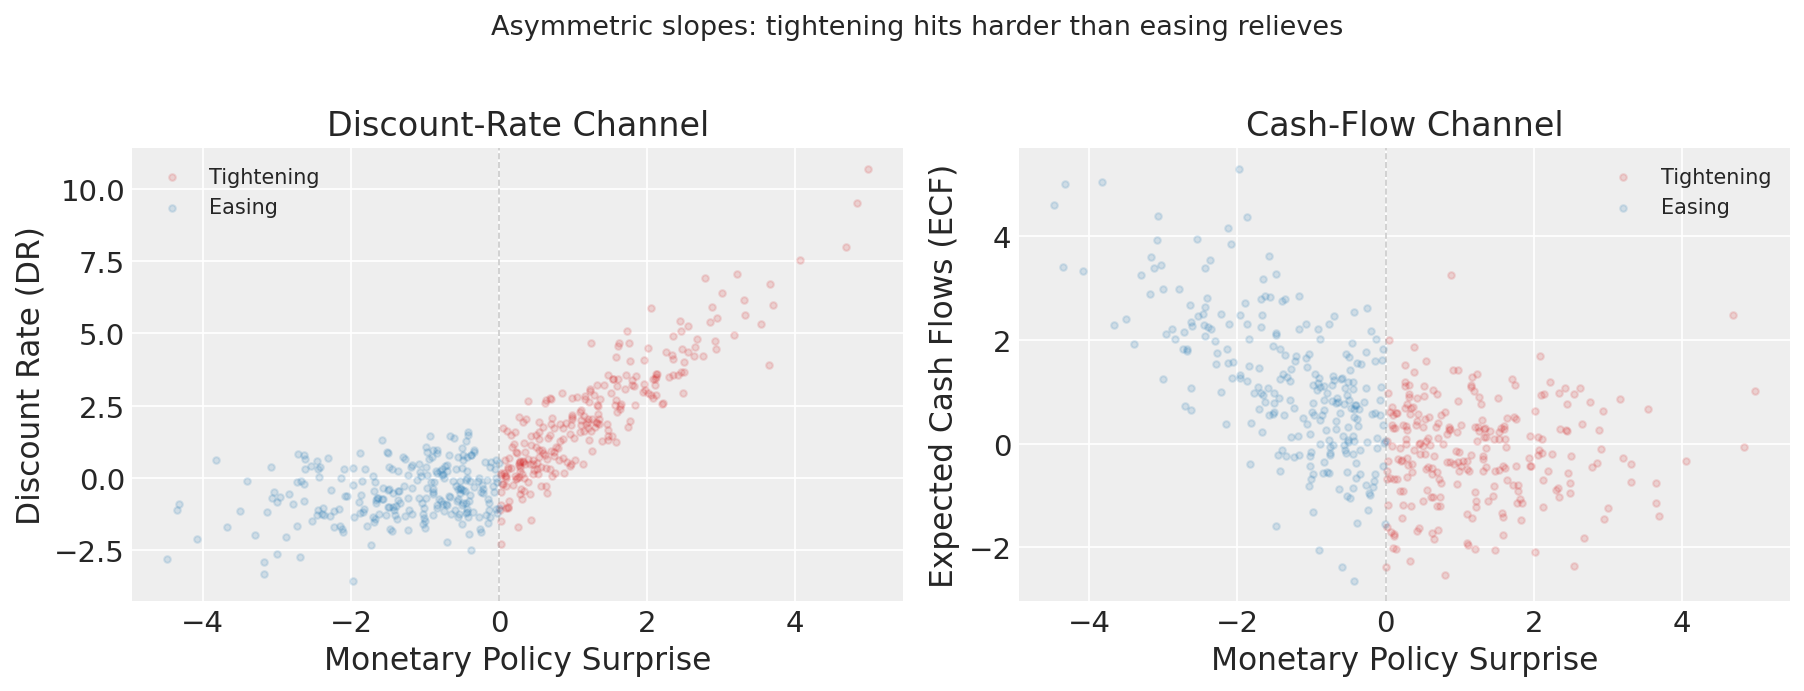
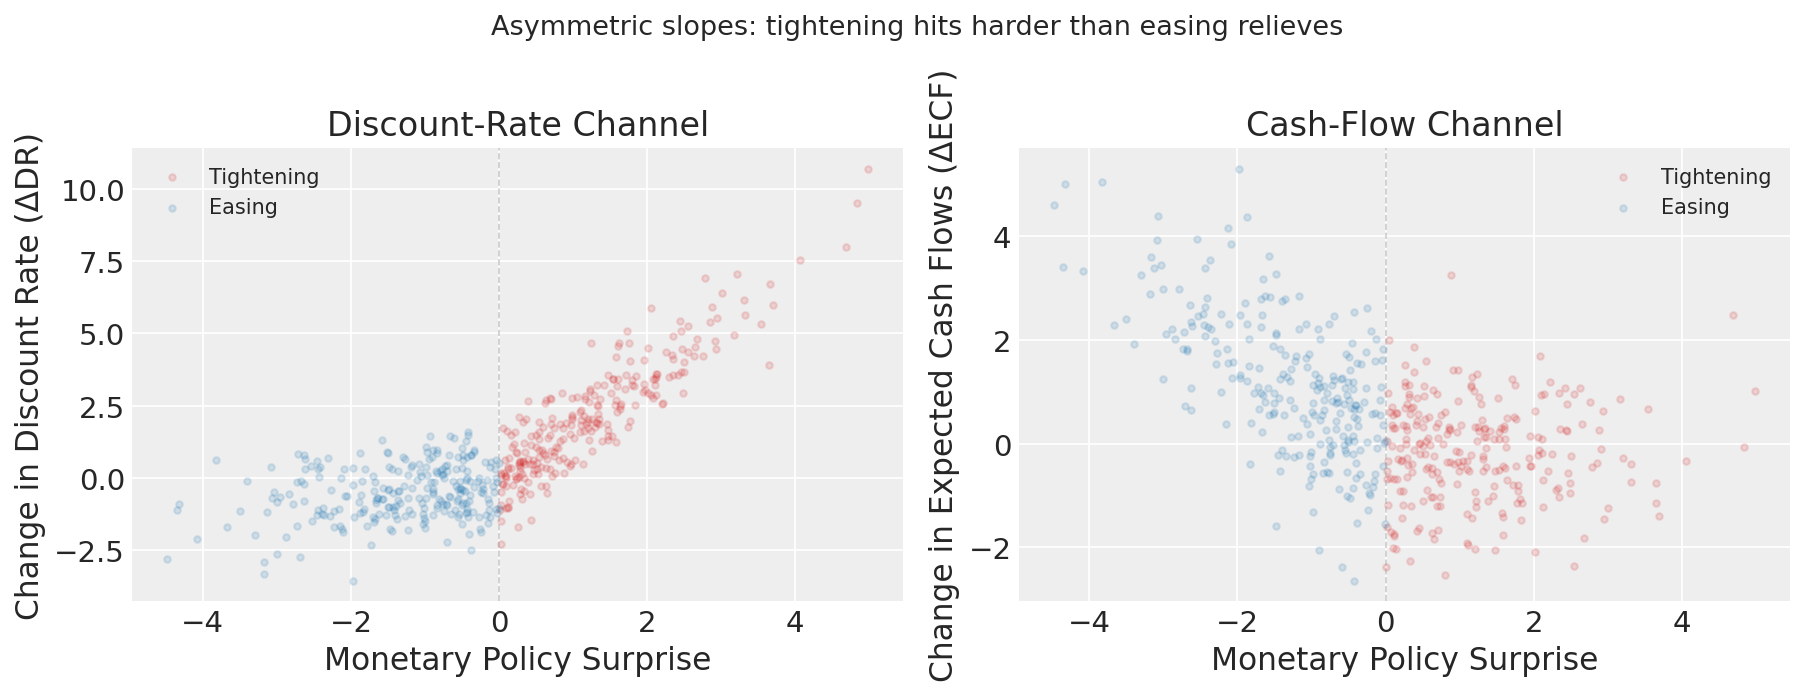
correcting spelling errors

Changed region(s): [[0.4967, 0.1216, 0.5277, 0.9725], [0.0, 0.2127, 0.031, 0.8813]]

diff --git a/run_demo_dag1.py b/run_demo_dag1.py
@@ -96,8 +96,8 @@ def main():
         axes[0].scatter(df["MP_surp"][mask], df["DR"][mask], alpha=0.15, s=10, label=label, color=color)
         axes[1].scatter(df["MP_surp"][mask], df["ECF"][mask], alpha=0.15, s=10, label=label, color=color)
 
-    axes[0].set(xlabel="Monetary Policy Surprise", ylabel="Discount Rate (DR)", title="Discount-Rate Channel")
-    axes[1].set(xlabel="Monetary Policy Surprise", ylabel="Expected Cash Flows (ECF)", title="Cash-Flow Channel")
+    axes[0].set(xlabel="Monetary Policy Surprise", ylabel="Change in Discount Rate (ΔDR)", title="Discount-Rate Channel")
+    axes[1].set(xlabel="Monetary Policy Surprise", ylabel="Change in Expected Cash Flows (ΔECF)", title="Cash-Flow Channel")
     for ax in axes:
         ax.legend(fontsize=10, framealpha=0.9)
         ax.axvline(0, color="grey", ls="--", alpha=0.4, lw=0.8)
